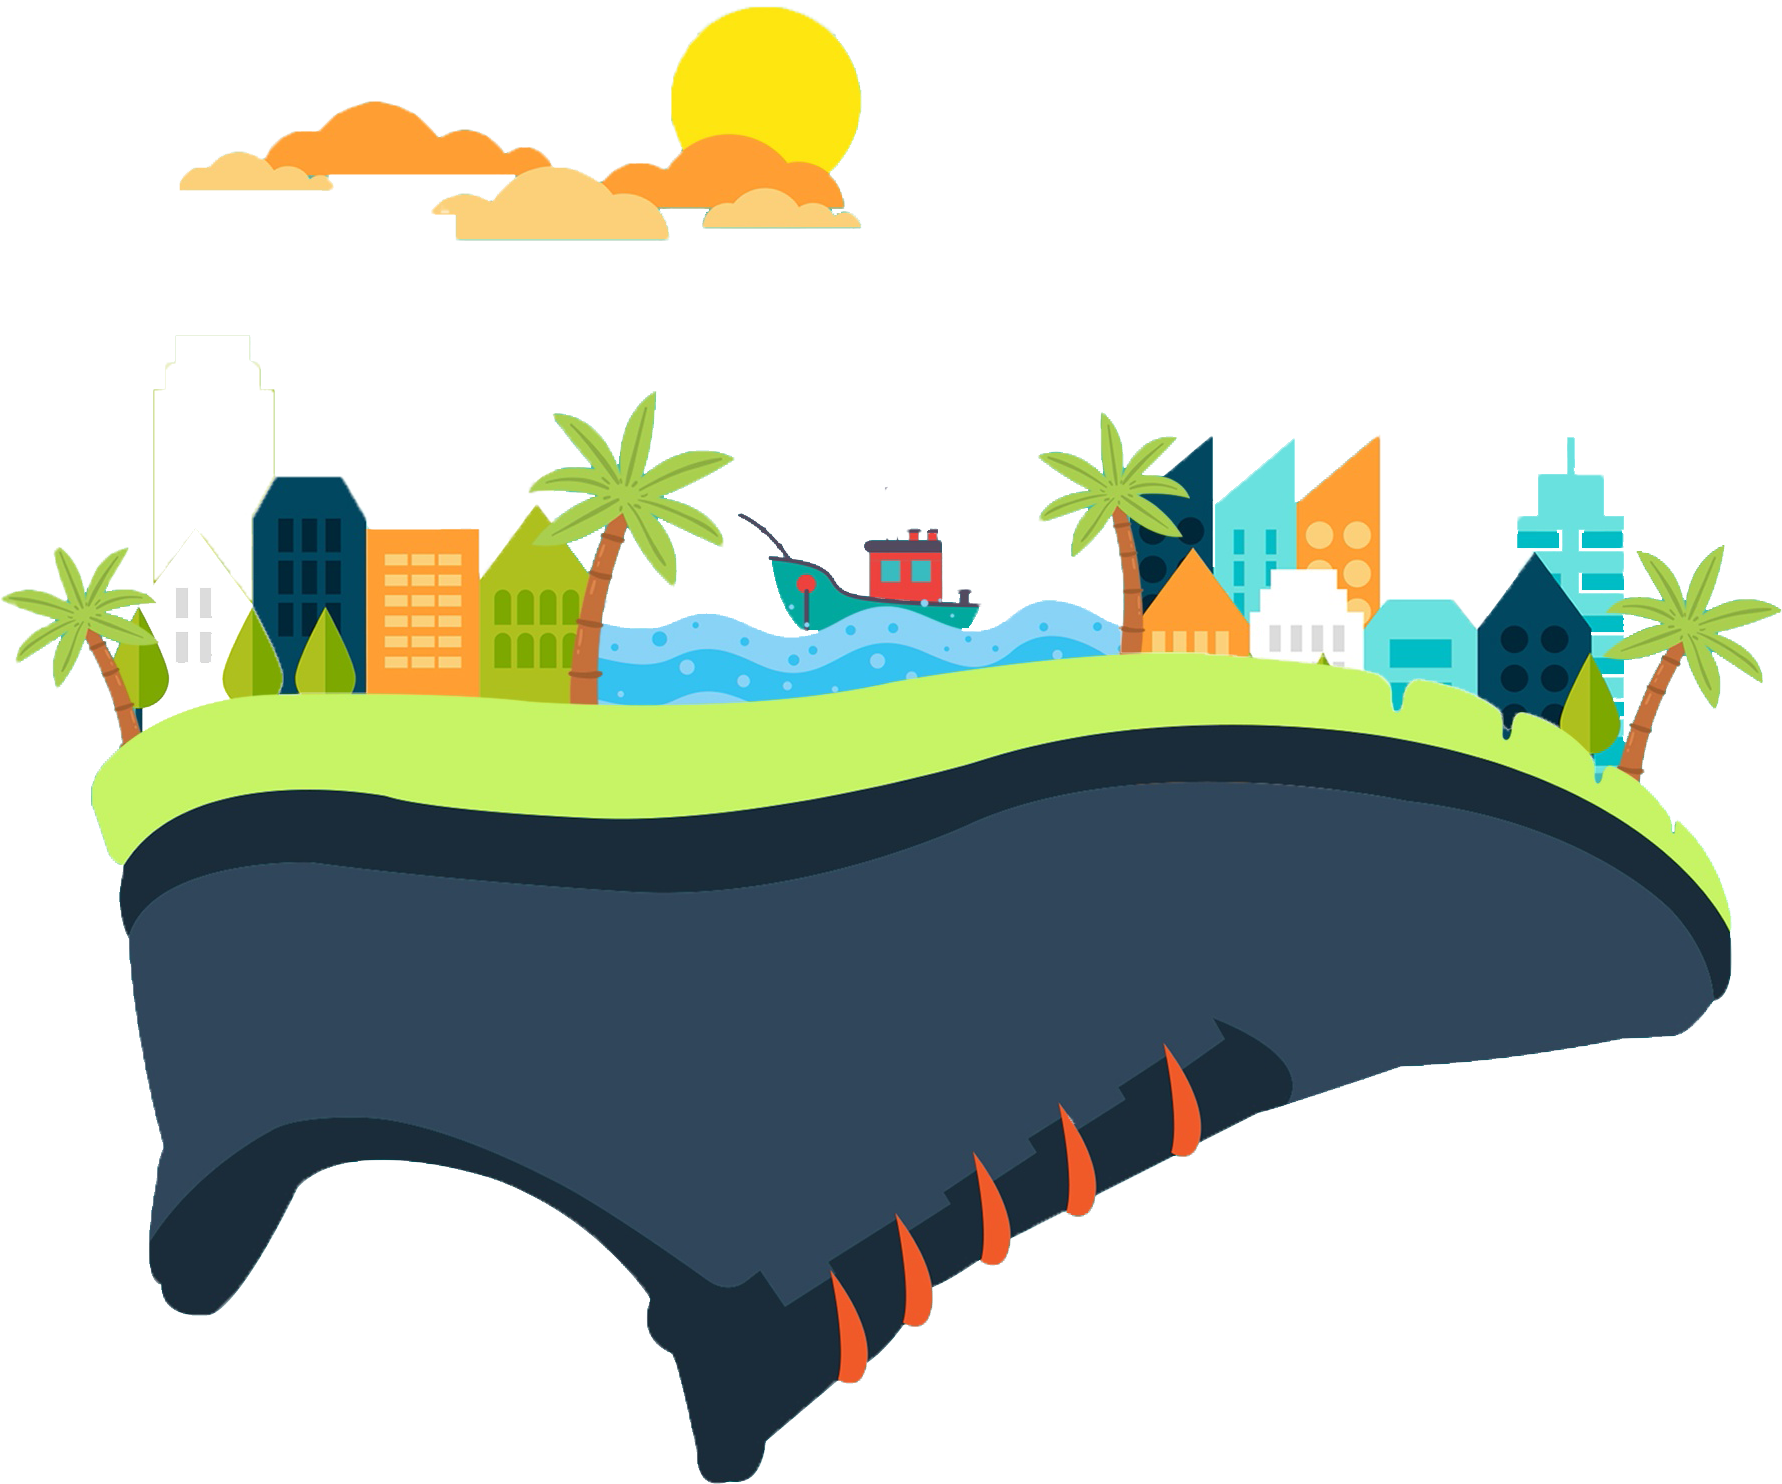
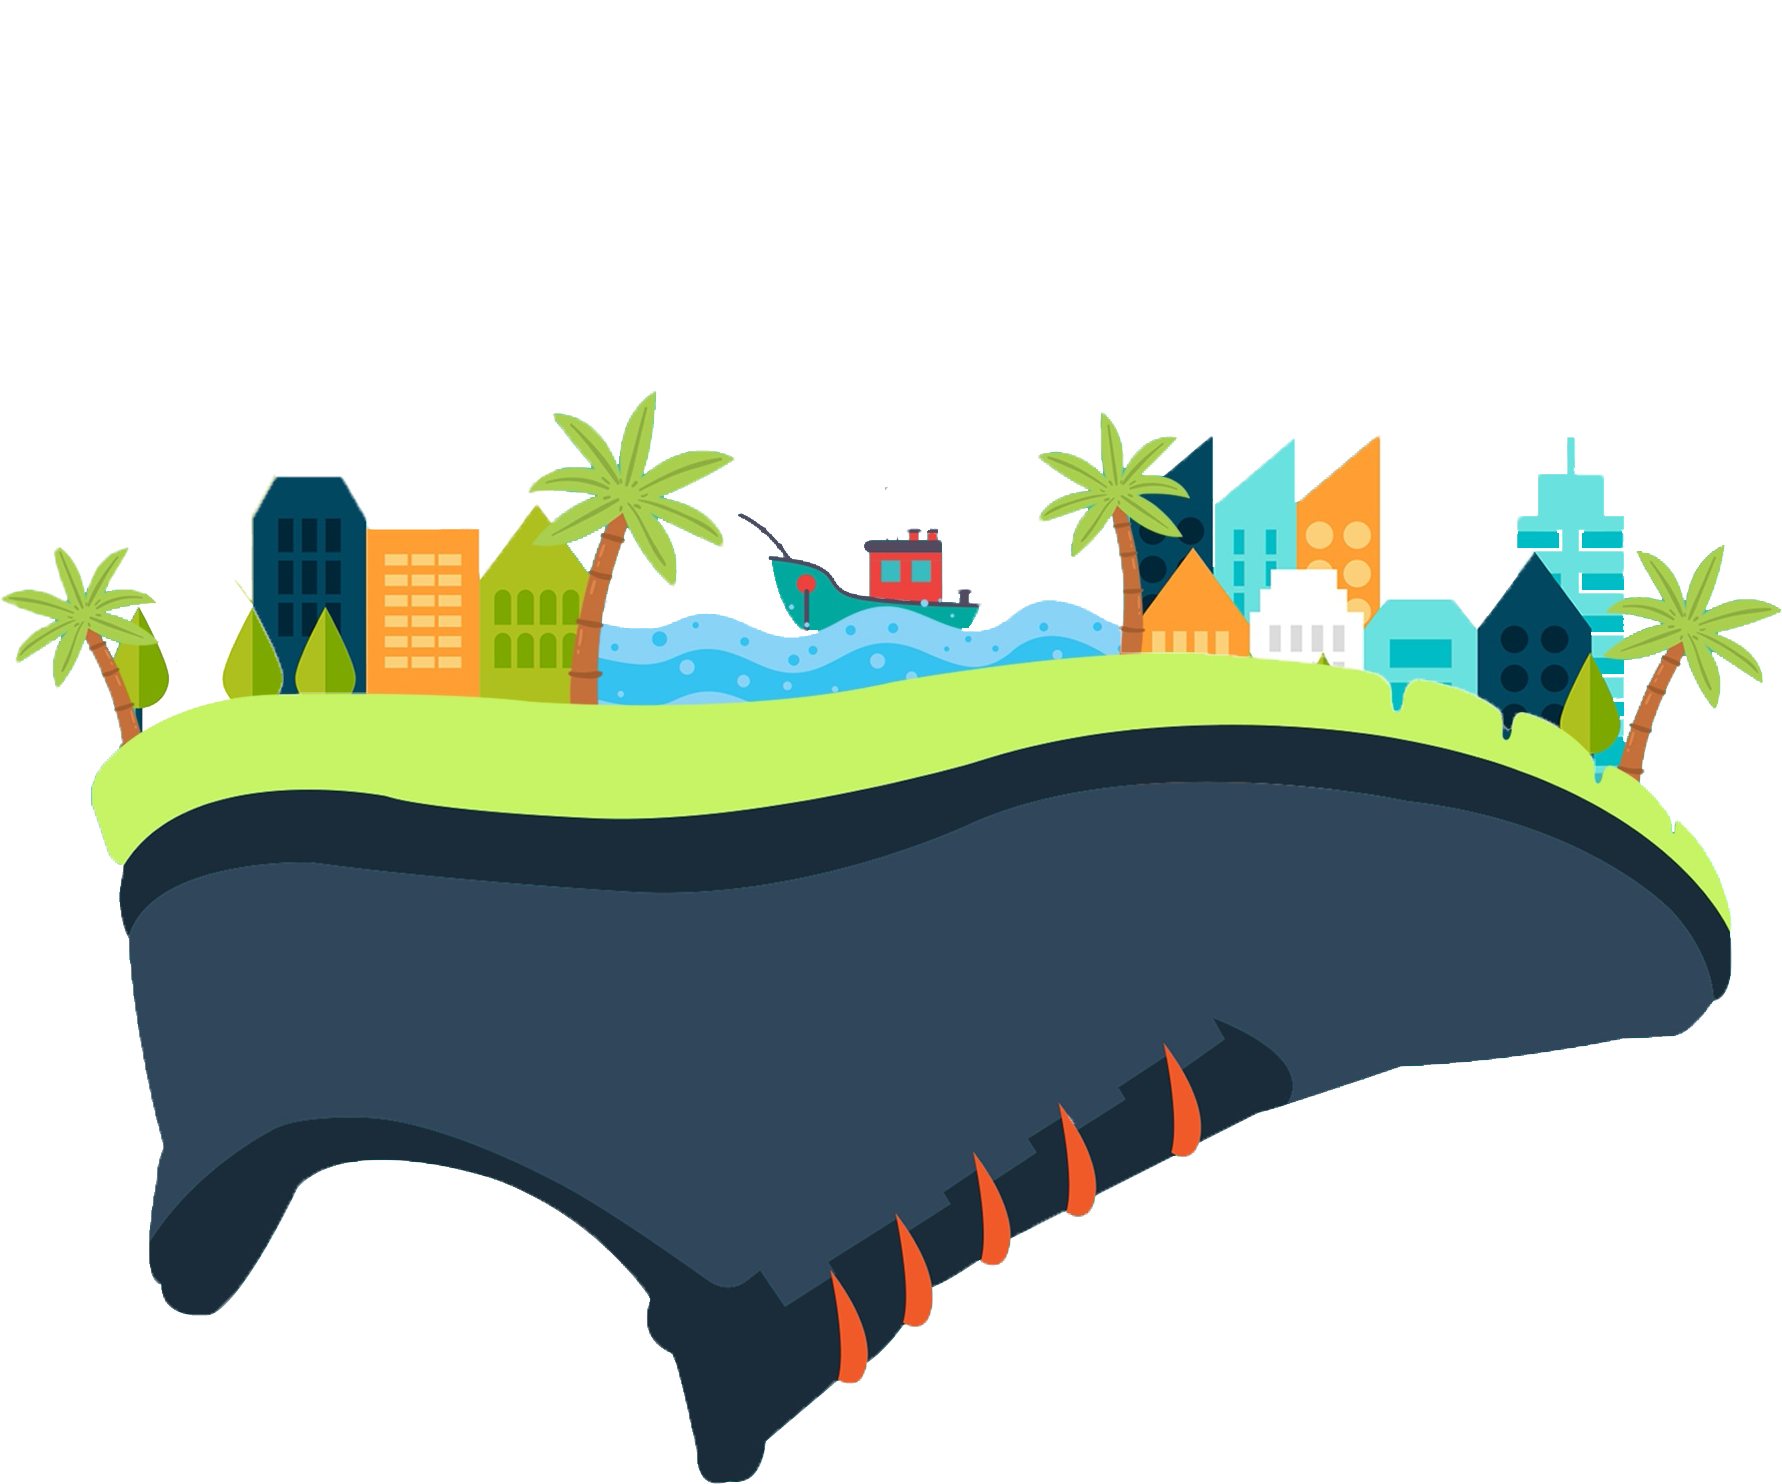
parallax trial

Changed region(s): [[0.0926, 0.0, 0.4938, 0.186], [0.0926, 0.372, 0.1235, 0.465]]

diff --git a/src/assets/styles.css b/src/assets/styles.css
@@ -501,29 +501,39 @@ h2 strong {
     
   }
 }
-
-
-.register{
-    color: #f44336;
-    position: absolute;
-    bottom: 7%;
-    left: 50%;
-    transform: translate(-50%,0);
-
-}
-.reg-button{
-    border: none;
-    color: white;
-    text-align: center;
-    text-decoration:blink;
-    display: inline-block;
-    cursor: pointer;
-    
-}
-.event-logo{
-    width: 80%;
-    opacity: 0.5;
-    margin: 0 auto;
-    margin-bottom: 2%;
+body {
+	background-image: url("../imgs/run.png");
+	background-position: center;
+	background-size: cover;
+	background-color: #3abcc0;
 }
 
+.run-image {
+	position: absolute;
+	left: 0;
+	top: 0;
+	width: 100%;
+	opacity: 0.5;
+}
+
+.register {
+	color: #f44336;
+	position: absolute;
+	bottom: 7%;
+	left: 50%;
+	transform: translate(-50%, 0);
+}
+.reg-button {
+	border: none;
+	color: white;
+	text-align: center;
+	text-decoration: blink;
+	display: inline-block;
+	cursor: pointer;
+}
+.event-logo {
+	width: 80%;
+	opacity: 0.5;
+	margin: 0 auto;
+	margin-bottom: 2%;
+}

diff --git a/src/css/timer.css b/src/css/timer.css
@@ -1,26 +1,36 @@
-
-
-.register{
-    color: #f44336;
-    position: absolute;
-    bottom: 7%;
-    left: 50%;
-    transform: translate(-50%,0);
-
-}
-.reg-button{
-    border: none;
-    color: white;
-    text-align: center;
-    text-decoration:blink;
-    display: inline-block;
-    cursor: pointer;
-    
-}
-.event-logo{
-    width: 80%;
-    opacity: 0.5;
-    margin: 0 auto;
-    margin-bottom: 2%;
+body {
+	background-image: url("../imgs/run.png");
+	background-position: center;
+	background-size: cover;
+	background-color: #3abcc0;
 }
 
+.run-image {
+	position: absolute;
+	left: 0;
+	top: 0;
+	width: 100%;
+	opacity: 0.5;
+}
+
+.register {
+	color: #f44336;
+	position: absolute;
+	bottom: 7%;
+	left: 50%;
+	transform: translate(-50%, 0);
+}
+.reg-button {
+	border: none;
+	color: white;
+	text-align: center;
+	text-decoration: blink;
+	display: inline-block;
+	cursor: pointer;
+}
+.event-logo {
+	width: 80%;
+	opacity: 0.5;
+	margin: 0 auto;
+	margin-bottom: 2%;
+}

diff --git a/src/index.html b/src/index.html
@@ -22,6 +22,7 @@
         <div id="fullpage">
                 <section class=" section active intro-section">
     	<div class="common">
+
         <div class="container">
             <div class="row">
             <div class="intro-logo col-lg-8 col-md-8 col-xs-12 col-sm-12">
@@ -38,9 +39,7 @@
 
                 <section class=" section">
     <div class="common timer-contain">
-
         <div class="wrap">
-
             <div class="countdown">
                 <div class="bloc-time days" data-init-value="40">
                     <span class="count-title">Days</span>
